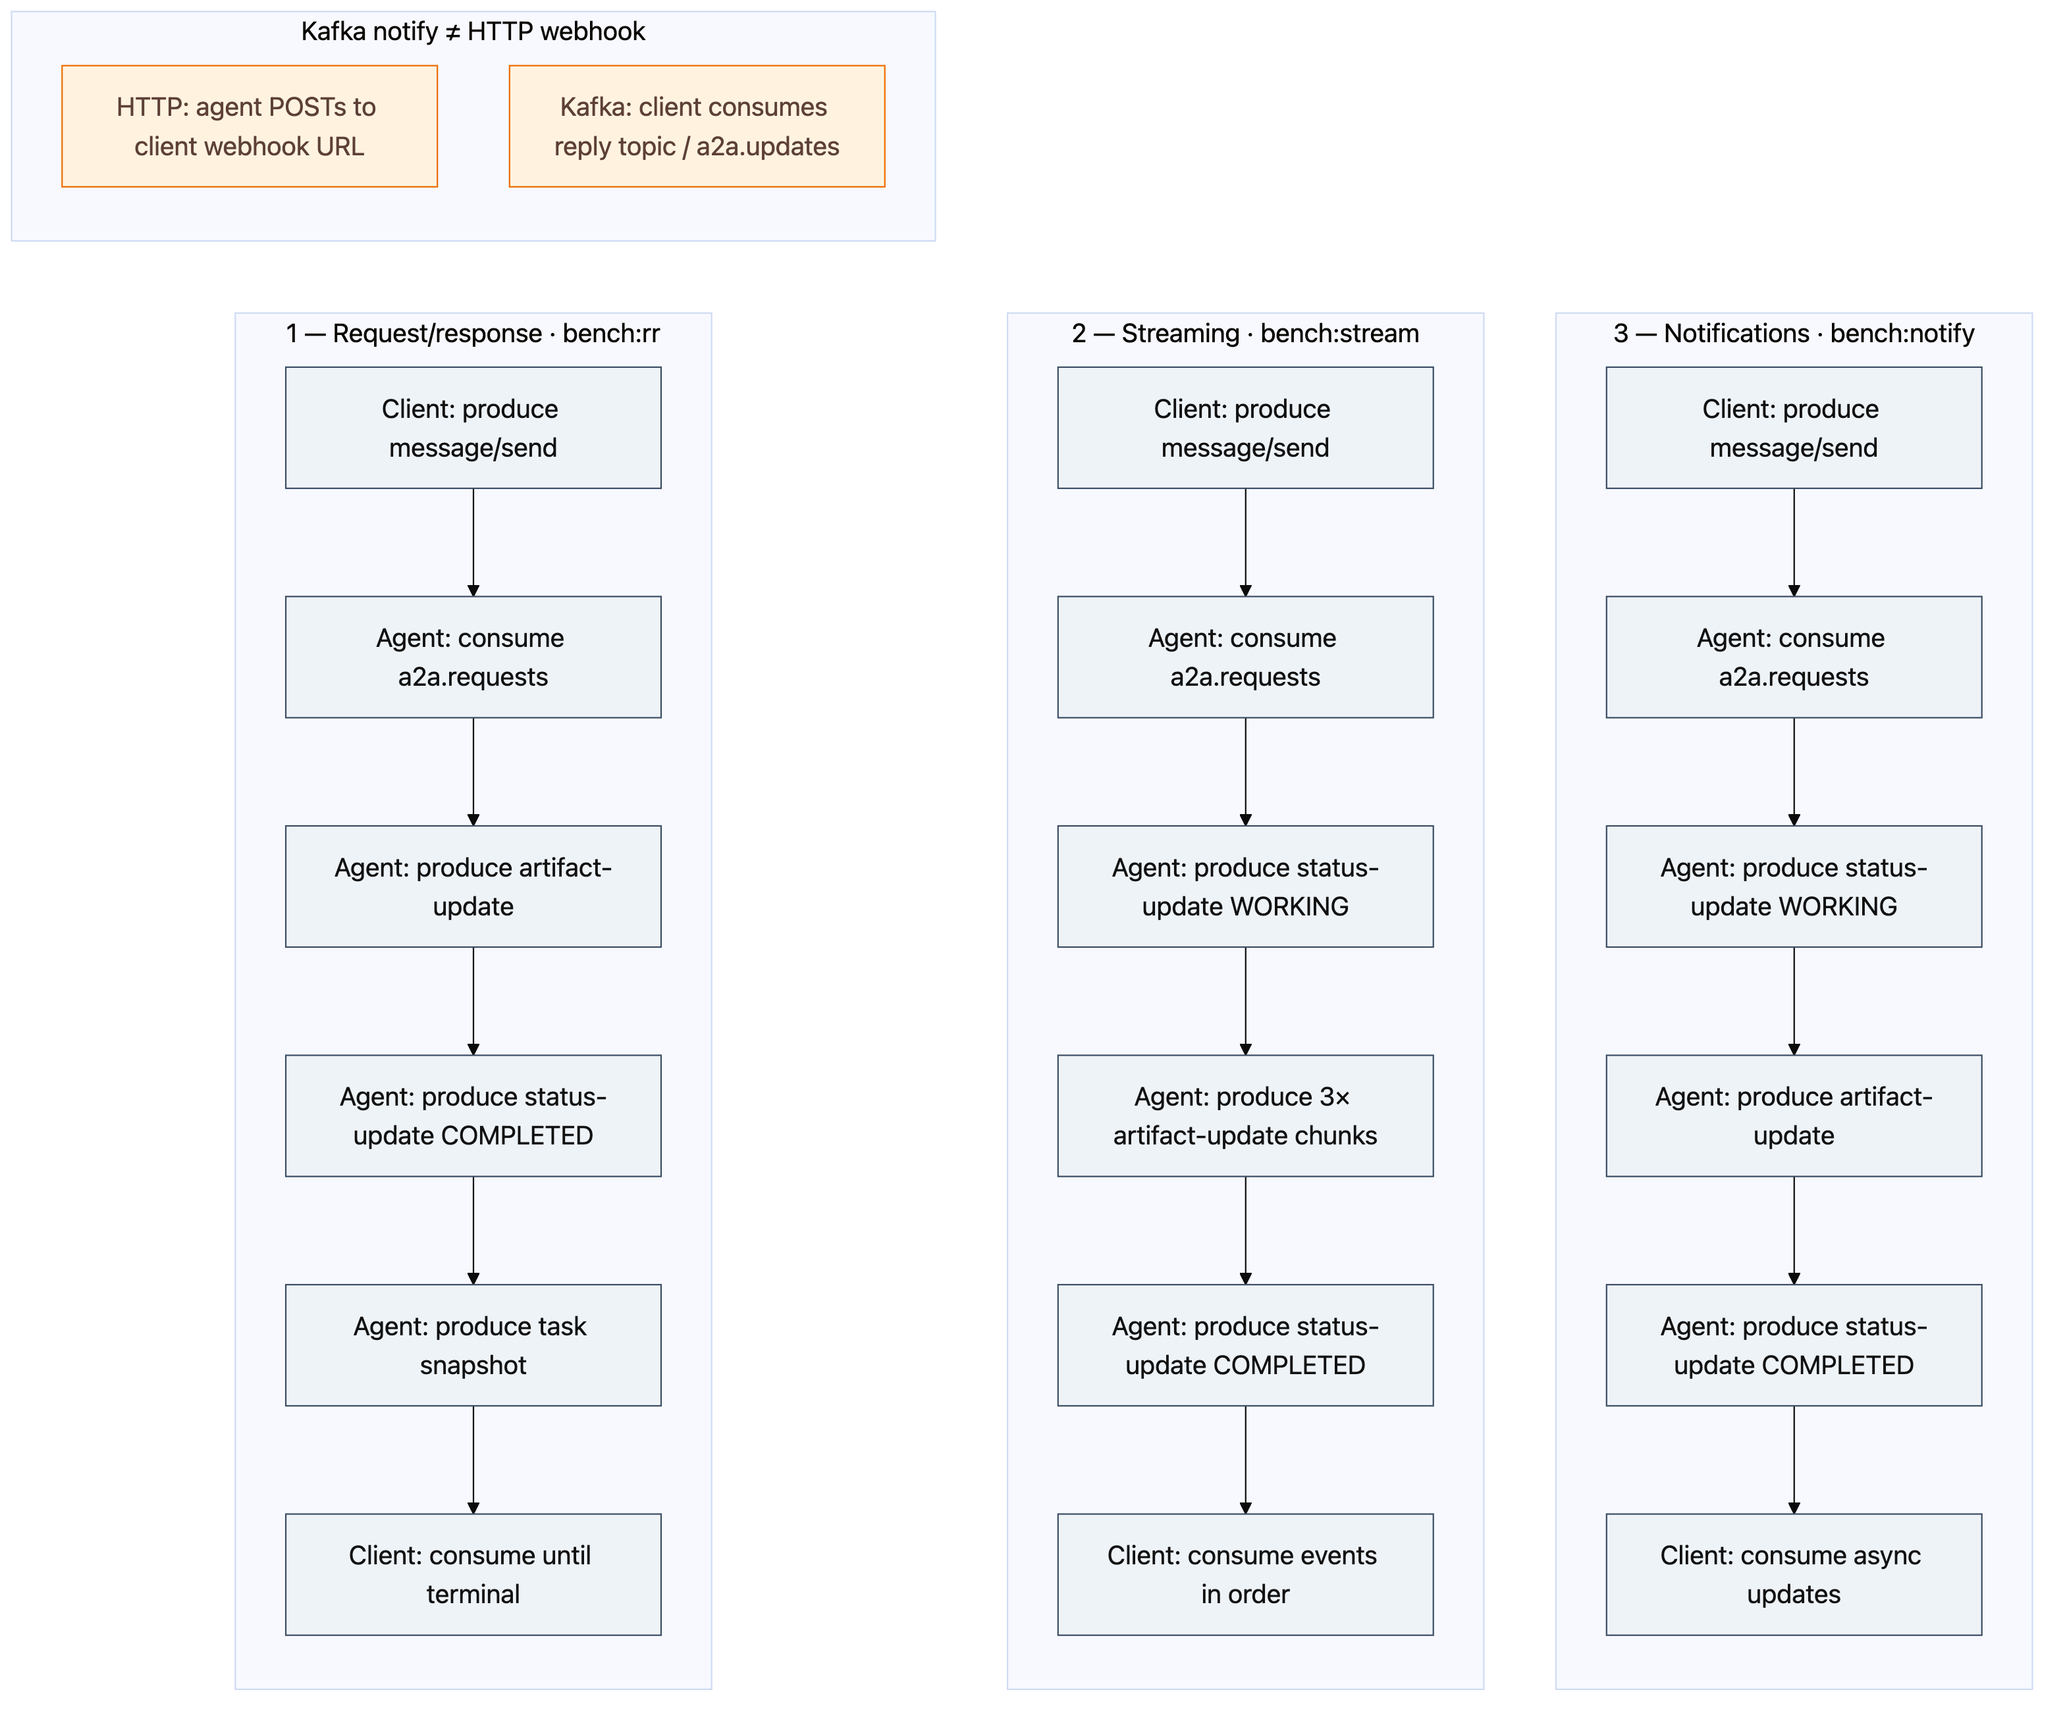
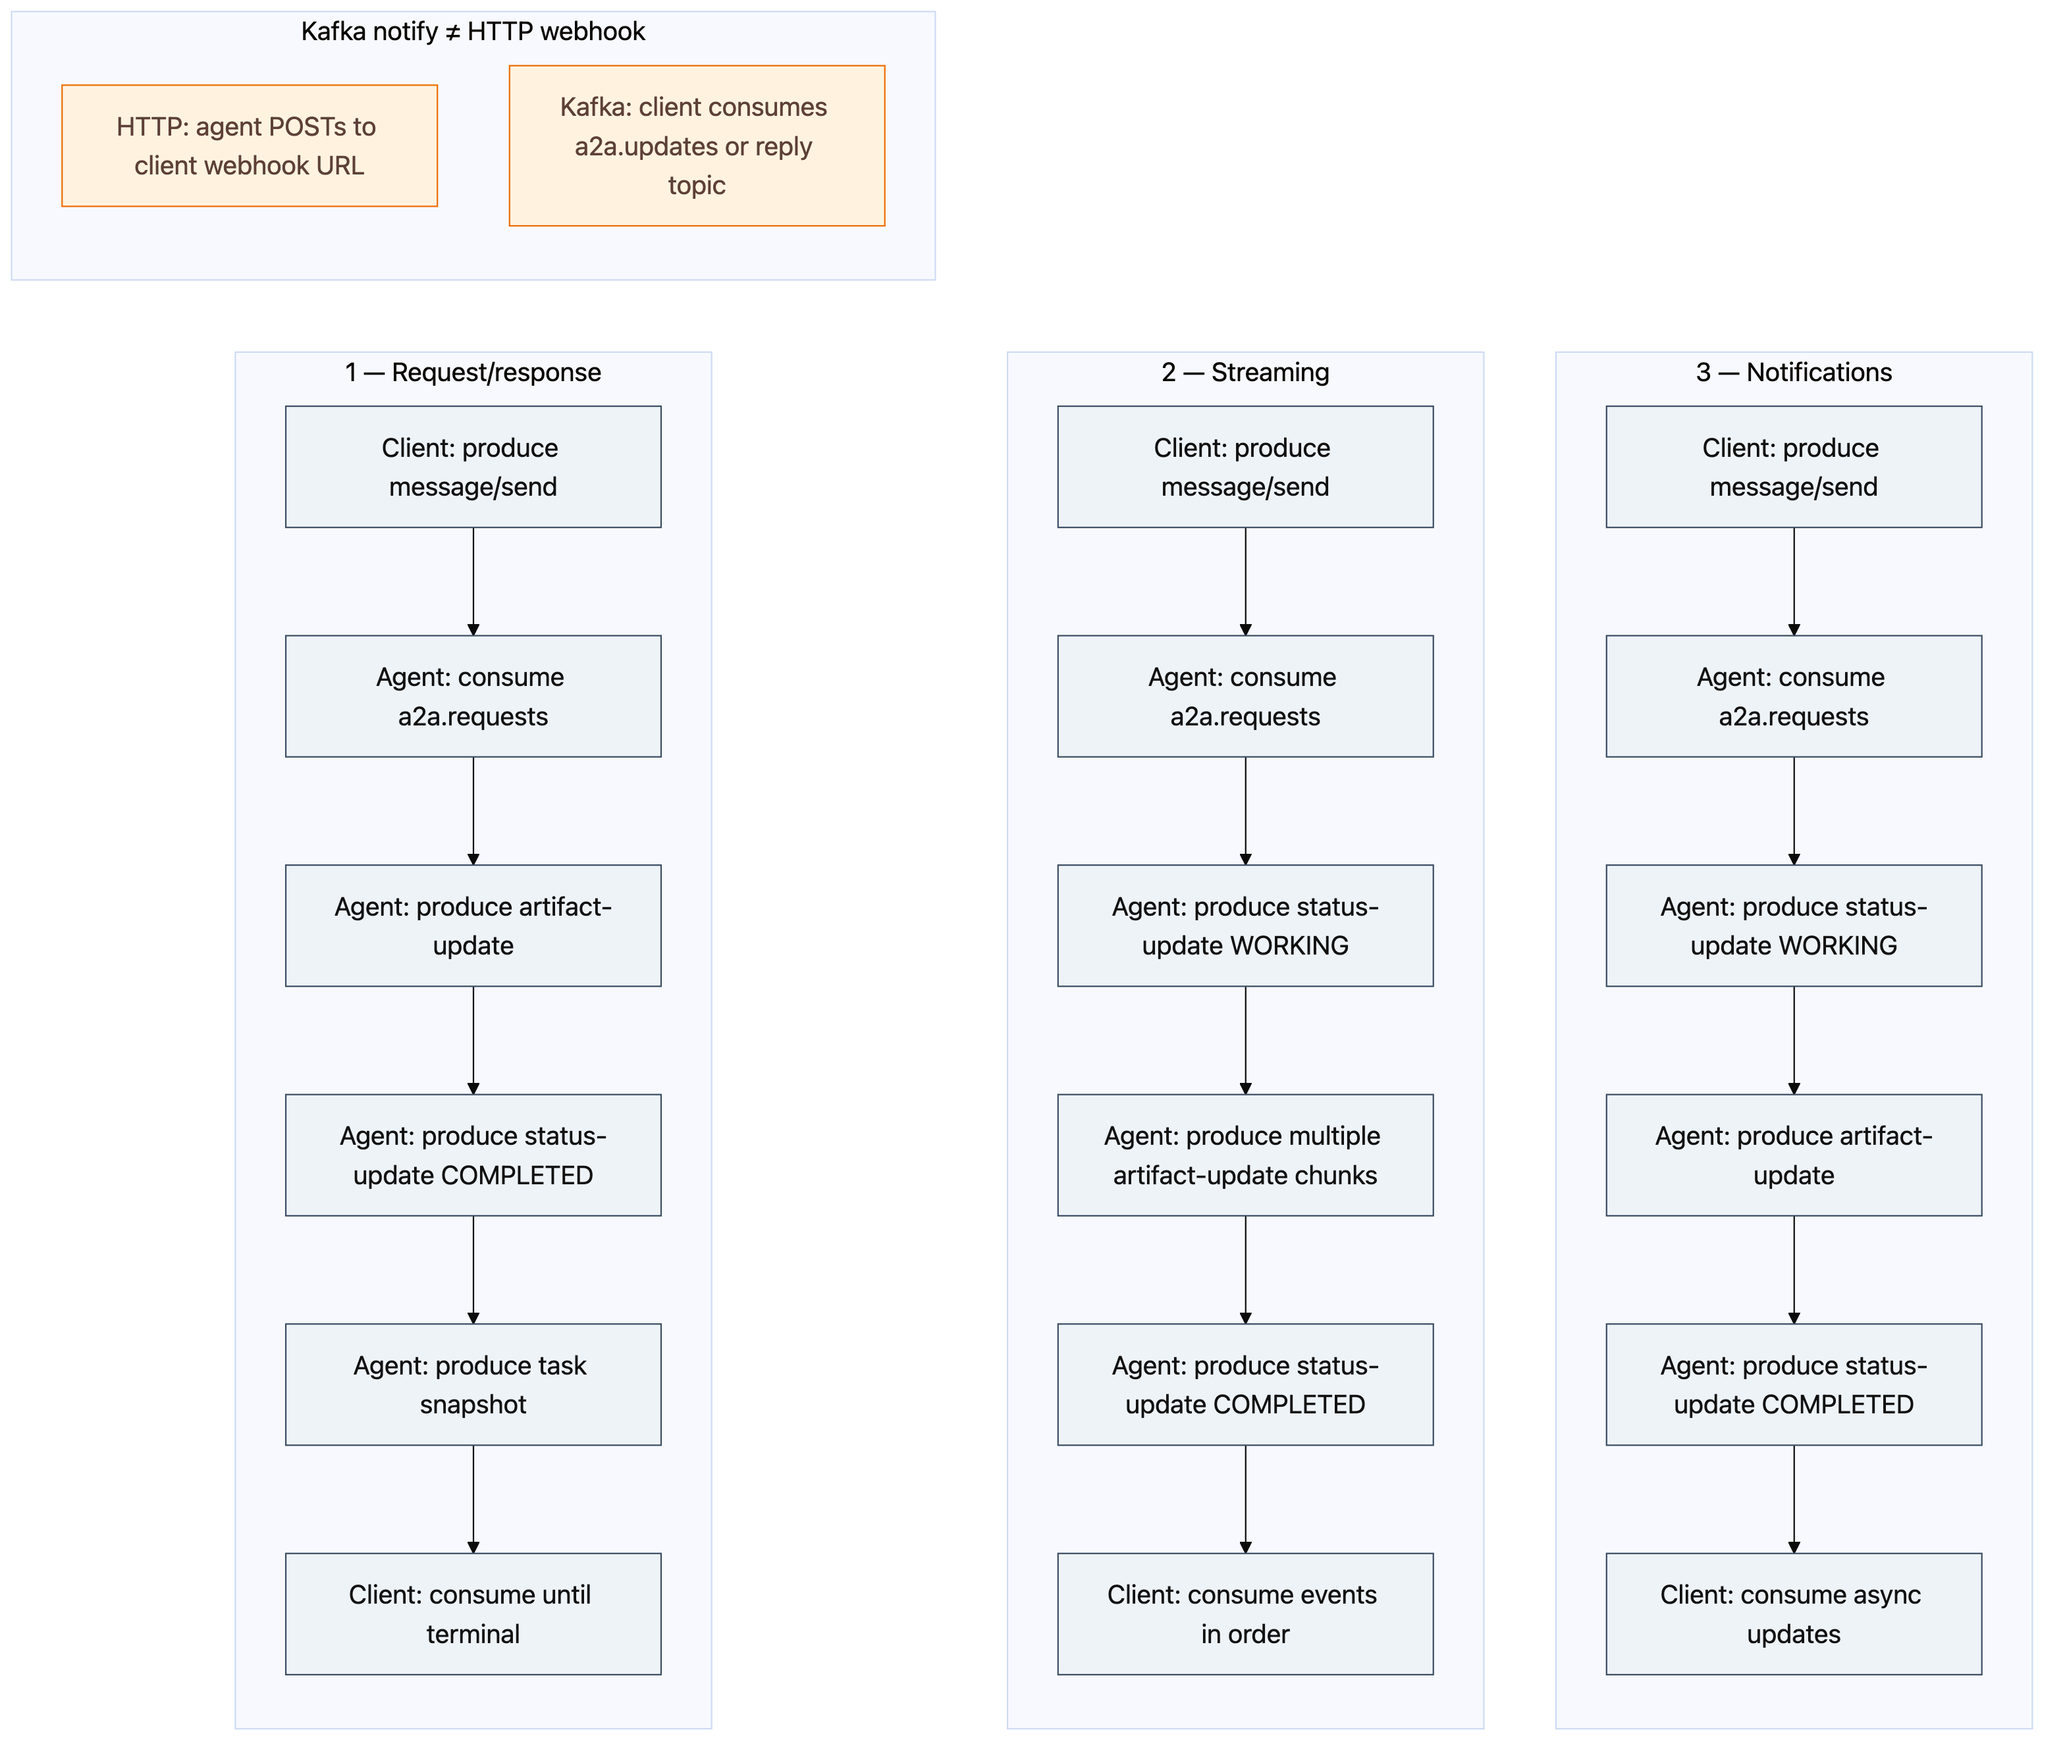
Add files via upload

diff --git a/AI/A2A/a2a-kafka/docs/diagrams/README.md b/AI/A2A/a2a-kafka/docs/diagrams/README.md
@@ -4,9 +4,9 @@ Mermaid sources and PNG/SVG exports for the Kafka transport POC.
 
 ## Diagrams
 
-### RR · stream · notify on Kafka (`bench:rr`, `bench:stream`, `bench:notify`)
+### RR · stream · notify on Kafka
 
-How the benchmark agent maps the three standard A2A interaction shapes onto **`a2a.requests`** and **`a2a.updates`** (or per-worker reply topics). Kafka **notify** is async consume — not HTTP webhook POST.
+How the three standard A2A interaction shapes map onto **`a2a.requests`** and **`a2a.updates`** (or a dedicated reply topic per client). Kafka **notifications** are async consume — not HTTP webhook POST.
 
 | Format | File |
 |--------|------|
